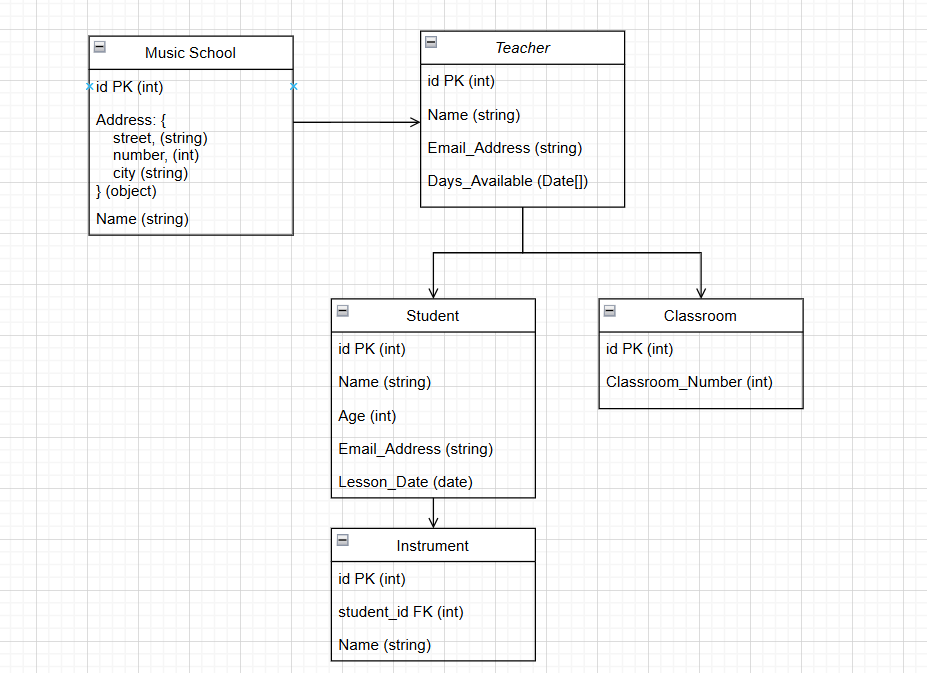
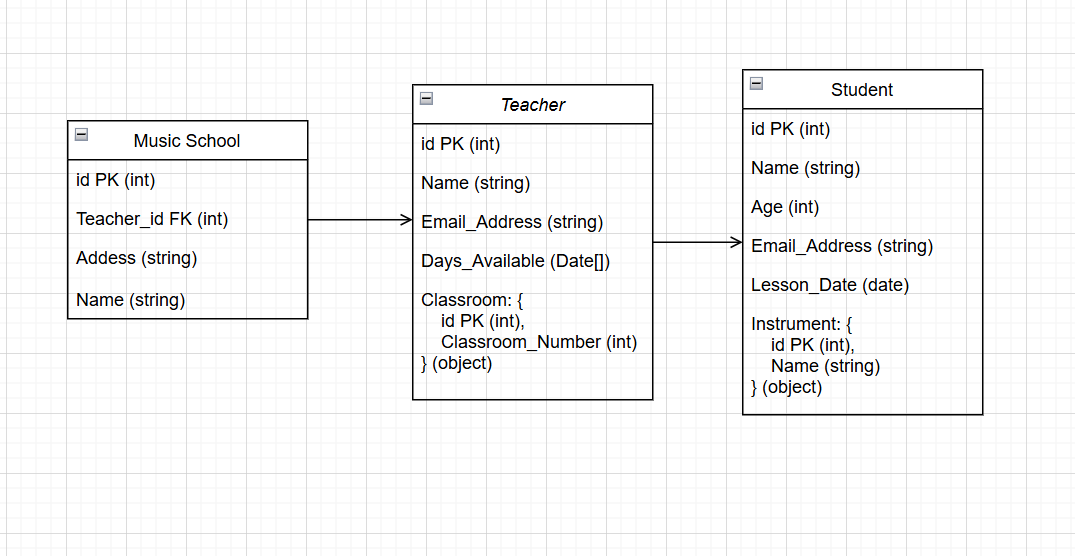
adjusted to correct nesting and redid the commands for mongodb

Changed region(s): [[0.0, 0.0306, 0.9968, 0.9784], [0.3323, 0.9478, 0.5739, 1.0]]

diff --git a/KN02/script-mongosh.js b/KN02/script-mongosh.js
@@ -4,5 +4,3 @@
 db.createCollection("MusicSchool");
 db.createCollection("Teacher");
 db.createCollection("Student");
-db.createCollection("Classroom");
-db.createCollection("Instrument");
